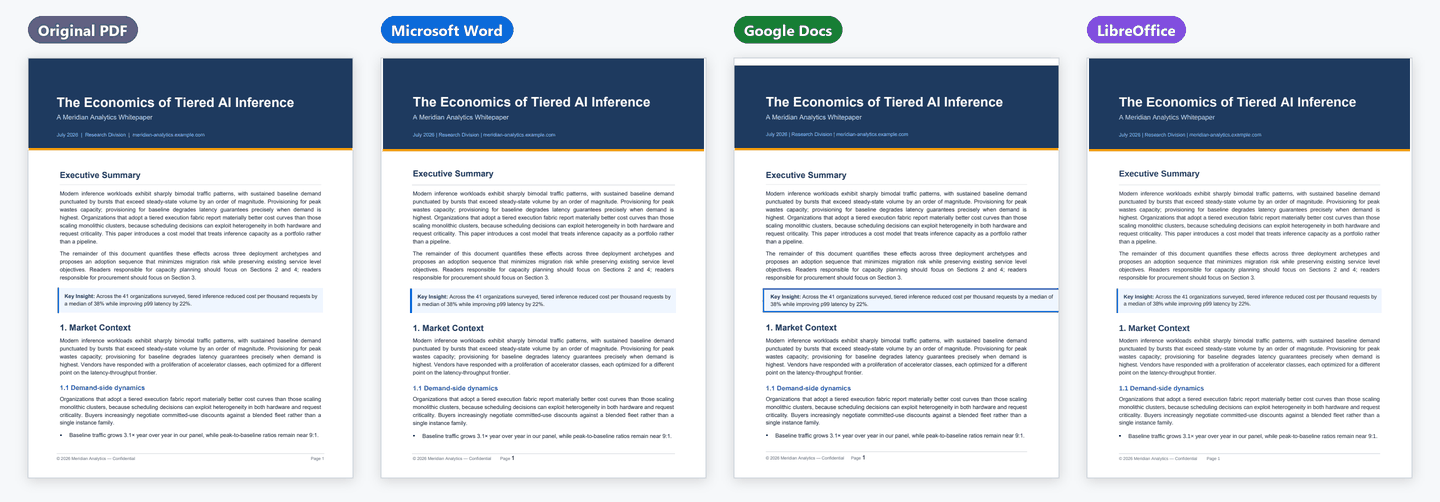
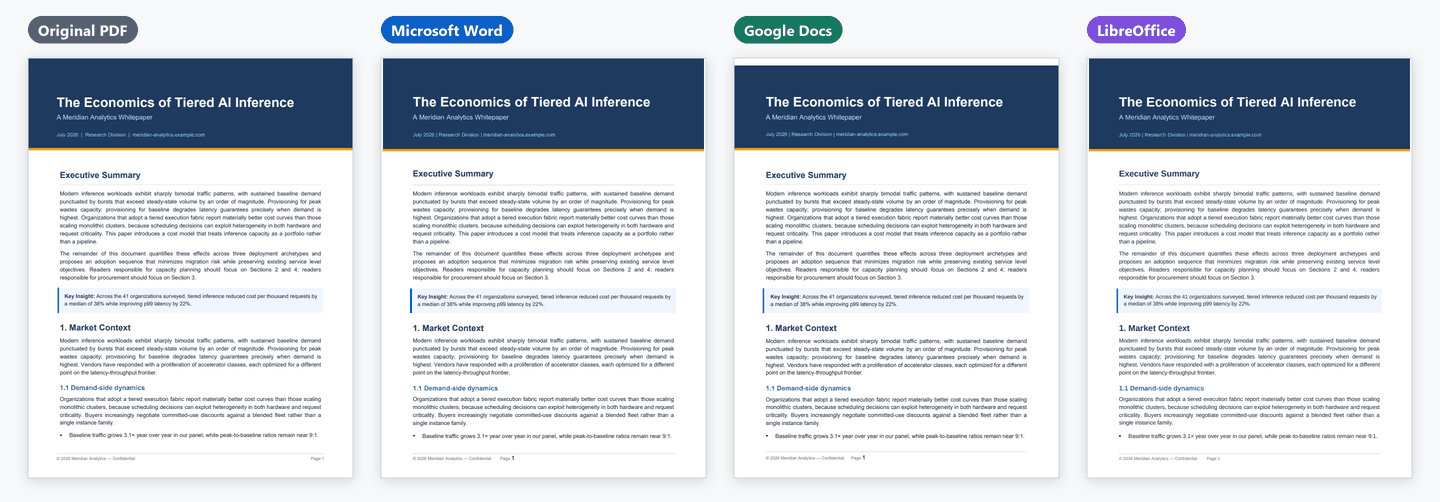
images: the hero's Google Docs frame from WP56's live export, and its caption (WP53b)
WP56 fixed how the gdocs profile writes 01_whitepaper_market's "Key Insight"
box; Google's export of the fixed DOCX wraps the box like the PDF and keeps
only its left accent bar. hero-readers.gif and hero-readers.png now use that
export (C:\lotmp\wp56live\01_whitepaper_market.wp56\gdocs.pdf) as the Google
Docs frame; the Word and LibreOffice frames are unchanged. Re-composed only,
nothing converted.

The captions drop "draws the quote box with a full border". Rechecked by eye
and measured on the renders: Google Docs still adds a white strip of about
14.5pt above the cover band, and in all three readers the footer's page
number sits further left than in the PDF, set larger in Word and Google Docs.
docs/images/README.md and docs/evidence/readme-images-2026-10-11.json record
the new source, its SHA-256 and the live row.

diff --git a/docs/images/README.md b/docs/images/README.md
@@ -3,8 +3,8 @@
 Every picture here is built by [`scripts/readme_images.py`](../../scripts/readme_images.py)
 from PDFs that already exist: the source PDF from `testkit/fixtures/` or
 `testkit/fixtures_expansion/`, and the renders kept by the final measurement of
-commit 910e6aa ([record](../evidence/final-set-2026-10-11.json)). Nothing is
-converted or rendered to make them. The file-by-file provenance (source PDF,
+commit 910e6aa ([record](../evidence/final-set-2026-10-11.json)), except the
+hero's Google Docs frame (below). Nothing is converted or rendered to make them. The file-by-file provenance (source PDF,
 each render and every picture's SHA-256) is in
 [readme-images-2026-10-11.json](../evidence/readme-images-2026-10-11.json).
 
@@ -27,11 +27,17 @@ Where the renders come from:
   pinned test container (LibreOffice 24.2).
 - **Microsoft Word:** the Word lane's PDFs: Word 16 (Office 2024) opening the
   same product DOCX and exporting it to PDF.
-- **Google Docs:** Google's own PDF export of the gdocs-profile DOCX, uploaded
-  to Google Docs in that measurement's live sweep.
+- **Google Docs:** Google's own PDF export of the gdocs-profile DOCX. For the
+  hero (`01_whitepaper_market`), the export comes from the WP56 live check of
+  that document at commit 7b0625e, after WP56 changed how the gdocs profile
+  writes a boxed panel: the "Key Insight" box now wraps like the PDF and keeps
+  only its left accent bar, where 910e6aa's export drew a full border. No
+  other picture shows a Google Docs render.
 
-The pictured documents' output did not move between 910e6aa and the commit
-that made these pictures; the evidence file says how that was checked.
+Apart from that box, the pictured documents' output did not move between
+910e6aa and the commits that made these pictures (the standard-profile DOCX
+of `01_whitepaper_market` is byte-identical at 7b0625e, as WP56 reports); the evidence file
+says how that was checked.
 
 ## Rebuilding
 
@@ -41,7 +47,8 @@ python scripts/readme_images.py RUN_DOCX_DIR --word WORD_DIR --docs DOCS_DIR
 
 `RUN_DOCX_DIR` is a sweep's kept-DOCX folder (`product/<stem>/<stem>.pdf` is
 the LibreOffice render), `WORD_DIR` holds `<stem>.word.pdf` and `DOCS_DIR`
-holds `<stem>.gdocs.pdf`. Without `--word` and `--docs` the two hero pictures
+holds `<stem>.gdocs.pdf` (for the current hero, a folder holding a copy of the
+WP56 export under that name). Without `--word` and `--docs` the two hero pictures
 are skipped. The label font is Segoe UI on Windows and DejaVu Sans elsewhere.
 The red outlines on the not-yet pictures are placed by hand in the script;
 check them by eye whenever the pictures are rebuilt. Then write a new

diff --git a/docs/examples.md b/docs/examples.md
@@ -3,8 +3,9 @@
 Each picture puts a page of a PDF beside the same page of the DOCX exactdoc
 made from it, converted with the default settings. The DOCX pages are
 LibreOffice's renders from the final measurement of 11 October 2026, made in
-the project's pinned test container; the top picture adds Microsoft Word's and
-Google Docs' renders of the same document from that measurement. How each
+the project's pinned test container; the top picture adds Microsoft Word's
+render from that measurement and Google Docs' render of the DOCX made for it
+(from a later live check, after a fix to how boxed text imports). How each
 picture was made is recorded in [images/README.md](images/README.md), and the
 numbers quoted here are from
 [the measurement record](evidence/final-set-2026-10-11.json).
@@ -13,10 +14,12 @@ numbers quoted here are from
 
 ![Page 1 of a whitepaper four times: the original PDF, then the DOCX as Microsoft Word, Google Docs and LibreOffice lay it out. All four look almost the same.](images/hero-readers.png)
 
-The still of the README's animation. Google Docs adds a thin white strip above
-the dark band (Docs adds about 14.6 points above a page-one band, and the DOCX
-cannot remove it) and draws the quote box with a full border; in all three the
-footer's page number sits further left than in the PDF.
+The still of the README's animation. Word and LibreOffice show the default
+DOCX; Google Docs shows the DOCX made for it (`--output-profile gdocs`). Google
+Docs adds a thin white strip above the dark band (Docs adds about 14.6 points
+above a page-one band, and the DOCX cannot remove it); in all three the
+footer's page number sits further left than in the PDF, and Word and Google
+Docs set it larger.
 
 ## Works well
 

diff --git a/README.md b/README.md
@@ -13,10 +13,10 @@ optional Google Docs measurement ([details](docs/install.md#what-talks-to-the-ne
 ![Animation. On the left, page 1 of a whitepaper as the original PDF. On the right, the DOCX exactdoc made from it, shown in turn as Microsoft Word, Google Docs and LibreOffice lay it out. All four pages look almost the same.](docs/images/hero-readers.gif)
 
 <sub>Page 1 of one of the project's test whitepapers, converted with the default
-settings ([still image](docs/images/hero-readers.png), [how it was made](docs/images/README.md)).
-Small differences remain: Google Docs adds a thin white strip above the dark
-band and draws the quote box with a full border, and the footer's page number
-sits further left than in the PDF.</sub>
+settings; Google Docs shows the DOCX made for it ([still image](docs/images/hero-readers.png),
+[how it was made](docs/images/README.md)). Small differences remain: Google Docs
+adds a thin white strip above the dark band, and the footer's page number sits
+further left than in the PDF, set larger in Word and Google Docs.</sub>
 
 <!-- release: at 0.3.0b1 this callout and the Install command are the only lines that change (docs/releasing.md, step 2). -->
 > **Alpha (0.2.0a1).** The first beta, 0.3.0b1, is being prepared; until it is
